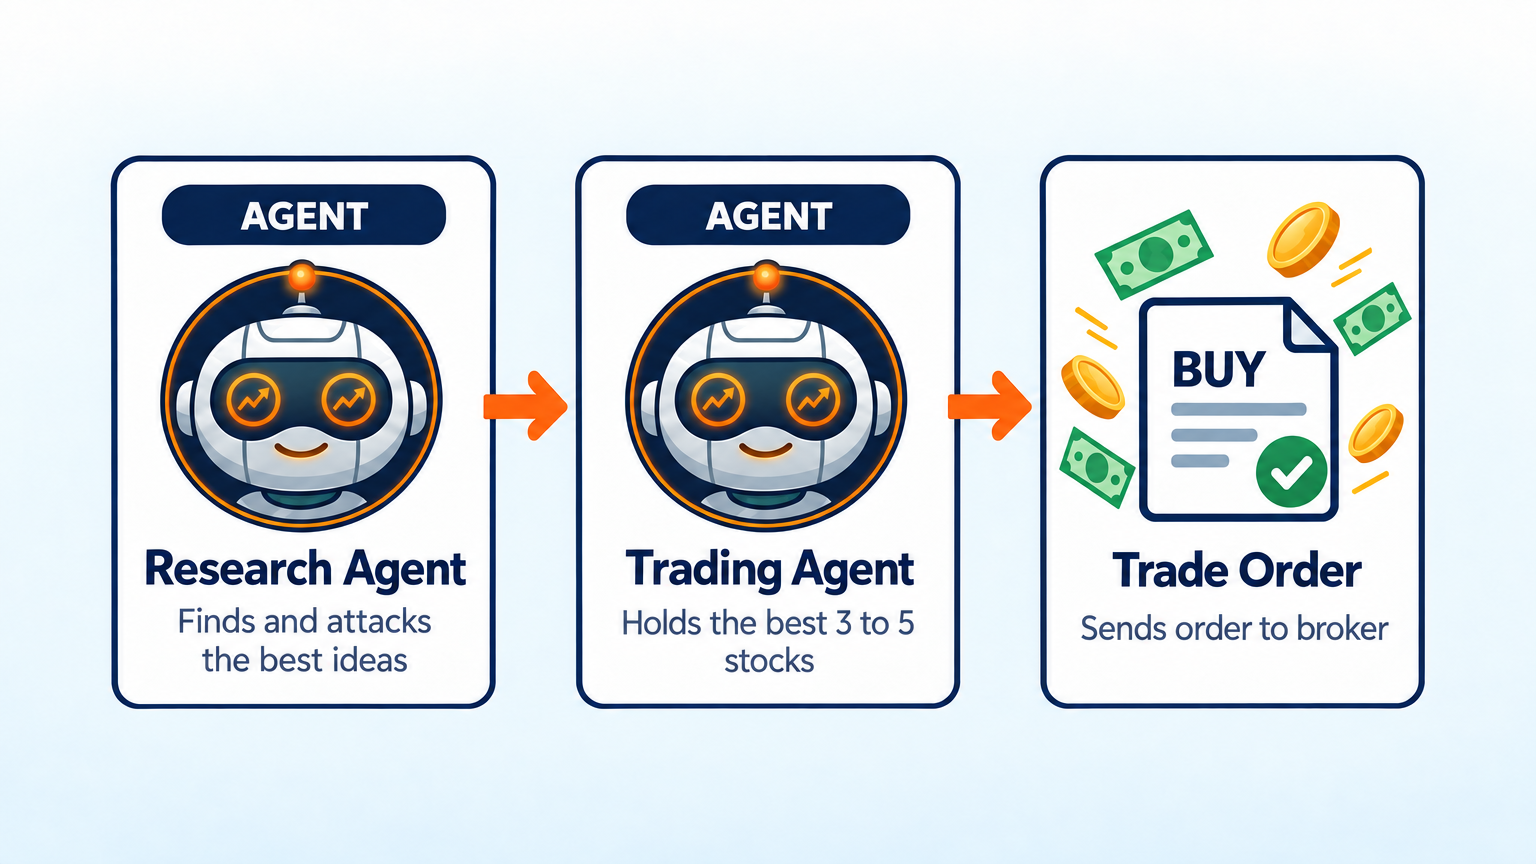
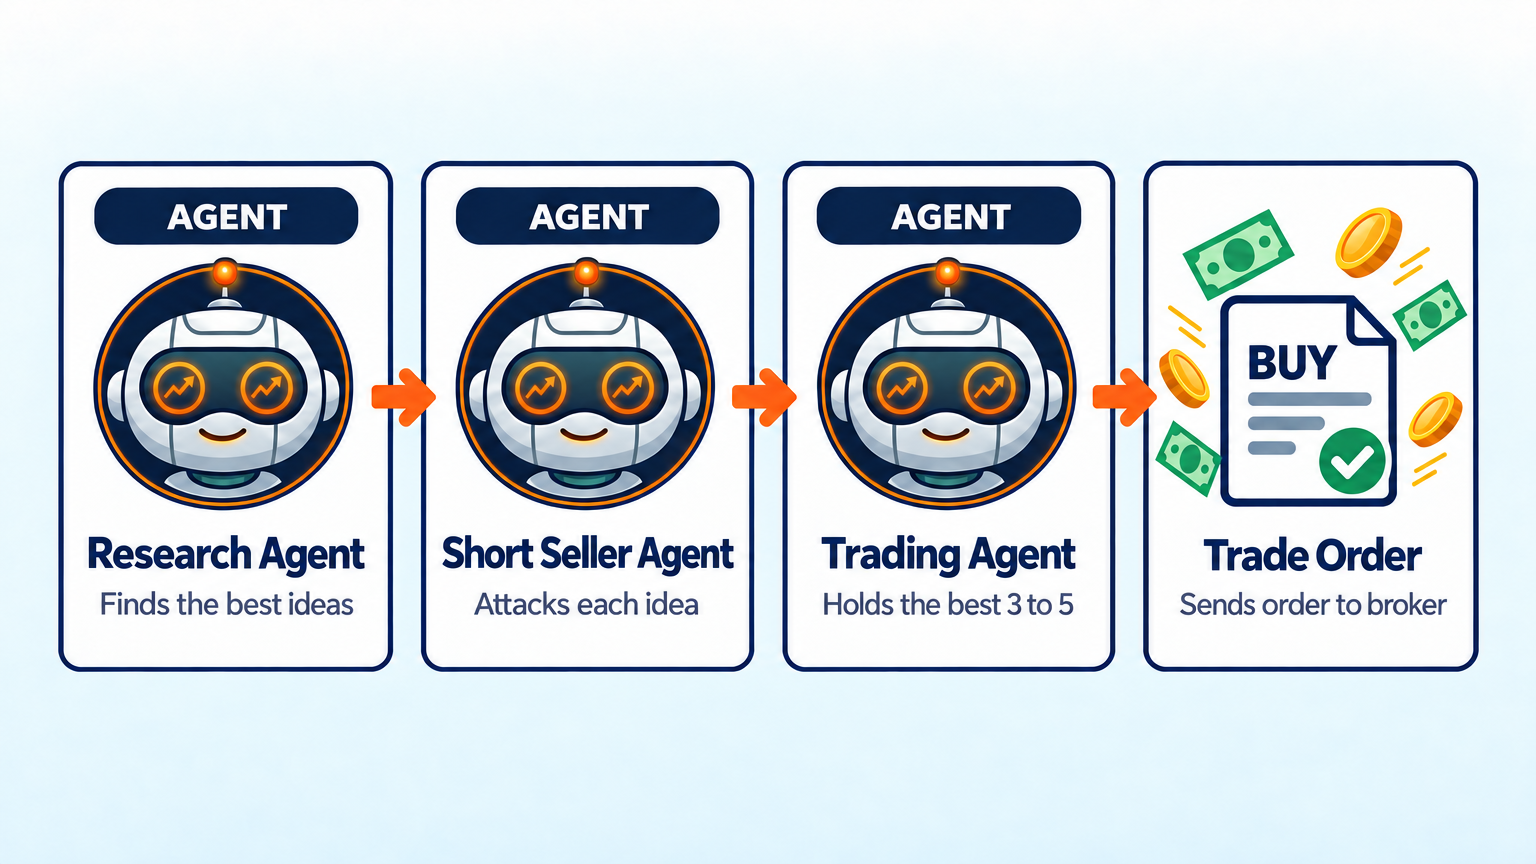
Give the Buffett and Ackman bots their challenger agent back
Buffett: research agent -> skeptic agent (Charlie Munger style) -> trading agent.
Ackman: research agent -> short seller agent -> trading agent.
Rob: these were meant to have agents that challenge each other; the number of
agents should fit the strategy. New workflow images from the approved Image
Generator (inspected). Tear sheets follow when the new backtests finish.
Guard test reads only agent names and permission flags.
Tests: pytest tests/test_ai_example_strategies.py tests/backtest/test_ai_example_strategies_backtest.py tests/docs tests/test_agent_capability_docs.py tests/test_growth_entrypoints.py (all passed)

Changed region(s): [[0.0312, 0.1562, 0.9688, 0.8438], [0.6875, 0.8125, 0.9062, 0.8438], [0.0938, 0.8125, 0.3125, 0.8438]]

diff --git a/lumibot/example_strategies/ai_trading_team_bill_ackman_concentrated.py b/lumibot/example_strategies/ai_trading_team_bill_ackman_concentrated.py
@@ -1,9 +1,10 @@
 """Bill Ackman Portfolio AI Trading Bot.
 
 Invests the way Bill Ackman describes his style: own just a few simple,
-high-quality companies and put real money behind them. A research agent studies
-each company and attacks its weak spots. A trading agent holds the 3 to 5 best,
-with most of the account in the top ideas.
+high-quality companies and put real money behind them. A research agent finds
+the best ideas. A short seller agent attacks each one the way a short seller
+would. A trading agent holds the 3 to 5 that survive, with most of the account
+in the top ideas.
 Not affiliated with or endorsed by Bill Ackman or Pershing Square.
 """
 
@@ -23,26 +24,37 @@ class AITradingTeamBillAckmanConcentratedStrategy(Strategy):
             system_prompt=(
                 "You research companies the way Bill Ackman does. For each stock in the universe, check its "
                 "financial statements and recent price. Look for simple, predictable businesses that make "
-                "lots of cash. Then attack each one: too much debt, weak management, strong rivals, or a "
-                "price that is too high. Rank the stocks that survive. Do not trade."
+                "lots of cash and are priced well. Rank your top 5 ideas and say why. Do not trade."
+            ),
+        )
+        self.agents.create(
+            name="short_seller",
+            allow_trading=False,
+            system_prompt=(
+                "You are a short seller. Attack each idea in the research: too much debt, weak management, "
+                "strong rivals, accounting that looks off, or a price that is too high. Say which ideas "
+                "survive your attack and which do not. Do not trade."
             ),
         )
         self.agents.create(
             name="trader",
             allow_trading=True,
             system_prompt=(
-                "You invest like Bill Ackman. Own the 3 to 5 best stocks from the research, with bigger "
-                "weights on the best ideas, near 100% of the account. Only buy stocks in the universe. "
-                "Sell a stock when the research no longer ranks it in the top 5."
+                "You invest like Bill Ackman. Own the 3 to 5 ideas that survived the short seller, with "
+                "bigger weights on the best ones, near 100% of the account. Only buy stocks in the universe. "
+                "Sell a stock when it no longer survives the attack or drops out of the top 5."
             ),
         )
 
     def on_trading_iteration(self):
         facts = {"universe": self.parameters["universe"]}
         research = self.agents["researcher"].run(task_prompt="Rank the universe.", context=facts)
+        attack = self.agents["short_seller"].run(
+            task_prompt="Attack each idea.", context={**facts, "research": research.summary}
+        )
         self.agents["trader"].run(
-            task_prompt="Hold the best few ideas.",
-            context={**facts, "research": research.summary},
+            task_prompt="Hold the ideas that survived.",
+            context={**facts, "research": research.summary, "short_seller": attack.summary},
         )
 
 

diff --git a/lumibot/example_strategies/ai_trading_team_warren_buffett_value.py b/lumibot/example_strategies/ai_trading_team_warren_buffett_value.py
@@ -2,8 +2,9 @@
 
 Invests the way Warren Buffett describes in his Berkshire Hathaway letters: buy
 great businesses at fair prices and hold them. A research agent reads each
-company's SEC filings and checks its profits, cash flow, debt, and price. A
-trading agent owns the companies that are both great and fairly priced.
+company's SEC filings and picks the best mix of quality and price. A skeptic
+agent, like Charlie Munger, attacks each pick. A trading agent owns the
+companies that survive.
 Not affiliated with or endorsed by Warren Buffett or Berkshire Hathaway.
 """
 
@@ -30,22 +31,34 @@ class AITradingTeamWarrenBuffettValueStrategy(Strategy):
             ),
         )
         self.agents.create(
+            name="skeptic",
+            allow_trading=False,
+            system_prompt=(
+                "You are the skeptic, like Charlie Munger. For each pick in the research, look for the "
+                "reason it is a mistake: a price that is too high, a moat that is shrinking, too much debt, "
+                "or numbers that do not add up. Keep the picks that survive, 3 to 5 of them. Do not trade."
+            ),
+        )
+        self.agents.create(
             name="trader",
             allow_trading=True,
             system_prompt=(
-                "You invest like Warren Buffett. Own the 3 to 5 stocks the research names as the best mix "
-                "of quality and price, split about evenly, near 100% of the account. Hold for the long "
-                "run and do not trade on small moves. Sell a stock only when it drops out of the "
-                "research's best picks because the business got worse or the price got far too high."
+                "You invest like Warren Buffett. Own the 3 to 5 stocks the skeptic kept, split about "
+                "evenly, near 100% of the account. Hold for the long run and do not trade on small moves. "
+                "Sell a stock only when the skeptic drops it because the business got worse or the price "
+                "got far too high."
             ),
         )
 
     def on_trading_iteration(self):
         facts = {"universe": self.parameters["universe"]}
         research = self.agents["researcher"].run(task_prompt="Rank the universe.", context=facts)
+        review = self.agents["skeptic"].run(
+            task_prompt="Attack each pick.", context={**facts, "research": research.summary}
+        )
         self.agents["trader"].run(
-            task_prompt="Own the great businesses at fair prices.",
-            context={**facts, "research": research.summary},
+            task_prompt="Own the picks that survived.",
+            context={**facts, "research": research.summary, "skeptic": review.summary},
         )
 
 

diff --git a/scripts/run_ai_strategy_flash_backtests.py b/scripts/run_ai_strategy_flash_backtests.py
@@ -718,6 +718,13 @@ WAVE32 = (_job("buffett-2agent-v2", "ai_trading_team_warren_buffett_value", "AIT
 WAVE33 = (_job("fear-greed-2agent-v2", "ai_fear_and_greed_trading_bot", "FearAndGreedTradingBot", "2026-01-05", "2026-01-23", calls=80),)
 
 
+# Rob, 2026-09-29: Buffett and Ackman get their challenger back (skeptic / short seller).
+WAVE34 = (
+    _job("buffett-3agent", "ai_trading_team_warren_buffett_value", "AITradingTeamWarrenBuffettValueStrategy", "2026-01-05", "2026-01-16", calls=160),
+    _job("ackman-3agent", "ai_trading_team_bill_ackman_concentrated", "AITradingTeamBillAckmanConcentratedStrategy", "2026-01-05", "2026-01-16", calls=160),
+)
+
+
 def _jobs(wave: str) -> tuple[dict, ...]:
     # "7,8" runs several waves under one parent so the spend cap is shared.
     if "," in wave:

diff --git a/tests/test_ai_example_strategies.py b/tests/test_ai_example_strategies.py
@@ -65,7 +65,11 @@ def _created_agents(name: str) -> list[dict]:
     agents = []
     for node in ast.walk(_tree(name)):
         if isinstance(node, ast.Call) and ast.unparse(node.func) == "self.agents.create":
-            agents.append({kw.arg: ast.literal_eval(kw.value) if kw.arg != "system_prompt" else None for kw in node.keywords})
+            # Only the name and permission flags matter here; prompts may be any expression.
+            agents.append(
+                {kw.arg: ast.literal_eval(kw.value) for kw in node.keywords
+                 if kw.arg in {"name", "allow_trading", "allow_network"}}
+            )
     return agents
 
 

diff --git a/docsrc/agents_example_warren_buffett_ai_stock_picker.rst b/docsrc/agents_example_warren_buffett_ai_stock_picker.rst
@@ -5,7 +5,7 @@ Warren Buffett AI Stock Picker
    :description: An AI stock picker that thinks like Warren Buffett. It reads company filings, hunts for great companies at fair prices, and holds them. Free Python code for LumiBot.
 
 .. image:: ../docs/assets/ai-agent-workflows/warren-buffett-ai-stock-picker.png
-   :alt: Research agent reads company reports and prices, trading agent owns great companies at fair prices, then buys and holds
+   :alt: Research agent reads company reports and prices, skeptic agent attacks each pick, trading agent owns the picks that survive, then buys and holds
    :width: 100%
 
 This bot picks stocks the way Warren Buffett describes in his Berkshire Hathaway letters: buy wonderful businesses at fair prices and hold them for a long time. Why copy that? From 1965 through 2025, Berkshire's stock grew 19.7% a year, versus 10.5% for the S&P 500 (`Berkshire 2025 letter <https://www.berkshirehathaway.com/letters/2025ltr.pdf>`__).
@@ -13,8 +13,9 @@ This bot picks stocks the way Warren Buffett describes in his Berkshire Hathaway
 How it works
 ------------
 
-1. **Research agent** reads each company's latest SEC filings and financial statements. It checks for steady profits, high returns on capital, and a lasting edge, then checks the price: earnings yield, free cash flow yield, P/E, and debt.
-2. **Trading agent** owns the companies the research calls great businesses at a fair price, split about evenly. It holds for the long run and only sells when the business gets worse or the price gets far too high.
+1. **Research agent** reads each company's latest SEC filings and financial statements. It checks for steady profits, high returns on capital, and a lasting edge, then checks the price: earnings yield, free cash flow yield, P/E, and debt. It names the 3 to 5 best mixes of quality and price.
+2. **Skeptic agent**, like Buffett's partner Charlie Munger, attacks each pick: a price that is too high, a shrinking edge, too much debt, or numbers that do not add up. It keeps only the picks that survive.
+3. **Trading agent** owns the survivors, split about evenly. It holds for the long run and only sells when the skeptic drops a stock because the business got worse or the price got far too high.
 
 Change ``universe`` to pick from different companies.
 

diff --git a/docsrc/agents_example_bill_ackman_portfolio_ai_trading_bot.rst b/docsrc/agents_example_bill_ackman_portfolio_ai_trading_bot.rst
@@ -5,7 +5,7 @@ Bill Ackman Portfolio AI Trading Bot
    :description: An AI bot that invests like Bill Ackman. It holds a few big, high-conviction stocks and drops ideas that stop making the cut. Free Python code for LumiBot.
 
 .. image:: ../docs/assets/ai-agent-workflows/bill-ackman-portfolio-ai-trading-bot.png
-   :alt: Research agent finds and attacks the best ideas, trading agent holds the best 3 to 5 stocks, then the trade order
+   :alt: Research agent finds the best ideas, short seller agent attacks each idea, trading agent holds the best 3 to 5, then the trade order
    :width: 100%
 
 This bot invests the way Bill Ackman describes his style at Pershing Square: own a small number of simple, high-quality companies and put real money behind each one. Pershing Square usually keeps most of its money in just 8 to 12 core holdings (`Pershing Square Holdings <https://pershingsquareholdings.com/about-us/>`__), and its value rose 70.2% in 2020, its best year (`2020 annual report <https://assets.pershingsquareholdings.com/2021/04/12201719/Pershing-Square-Holdings-Ltd.-2020-Annual-Report-1.pdf-Letter-Only.pdf>`__).
@@ -13,8 +13,9 @@ This bot invests the way Bill Ackman describes his style at Pershing Square: own
 How it works
 ------------
 
-1. **Research agent** studies each company for simple, predictable businesses that make lots of cash. Then it attacks each idea: too much debt, weak management, strong rivals, or a price that is too high.
-2. **Trading agent** holds the 3 to 5 stocks that survive, with bigger weights on the best ideas. It sells a stock when it drops out of the top 5.
+1. **Research agent** studies each company for simple, predictable businesses that make lots of cash and are priced well, and ranks its top 5 ideas.
+2. **Short seller agent** attacks each idea the way a short seller would: too much debt, weak management, strong rivals, accounting that looks off, or a price that is too high. It says which ideas survive.
+3. **Trading agent** holds the 3 to 5 ideas that survived, with bigger weights on the best ones. It sells a stock when it no longer survives the attack.
 
 Change ``universe`` to pick from different companies.
 
